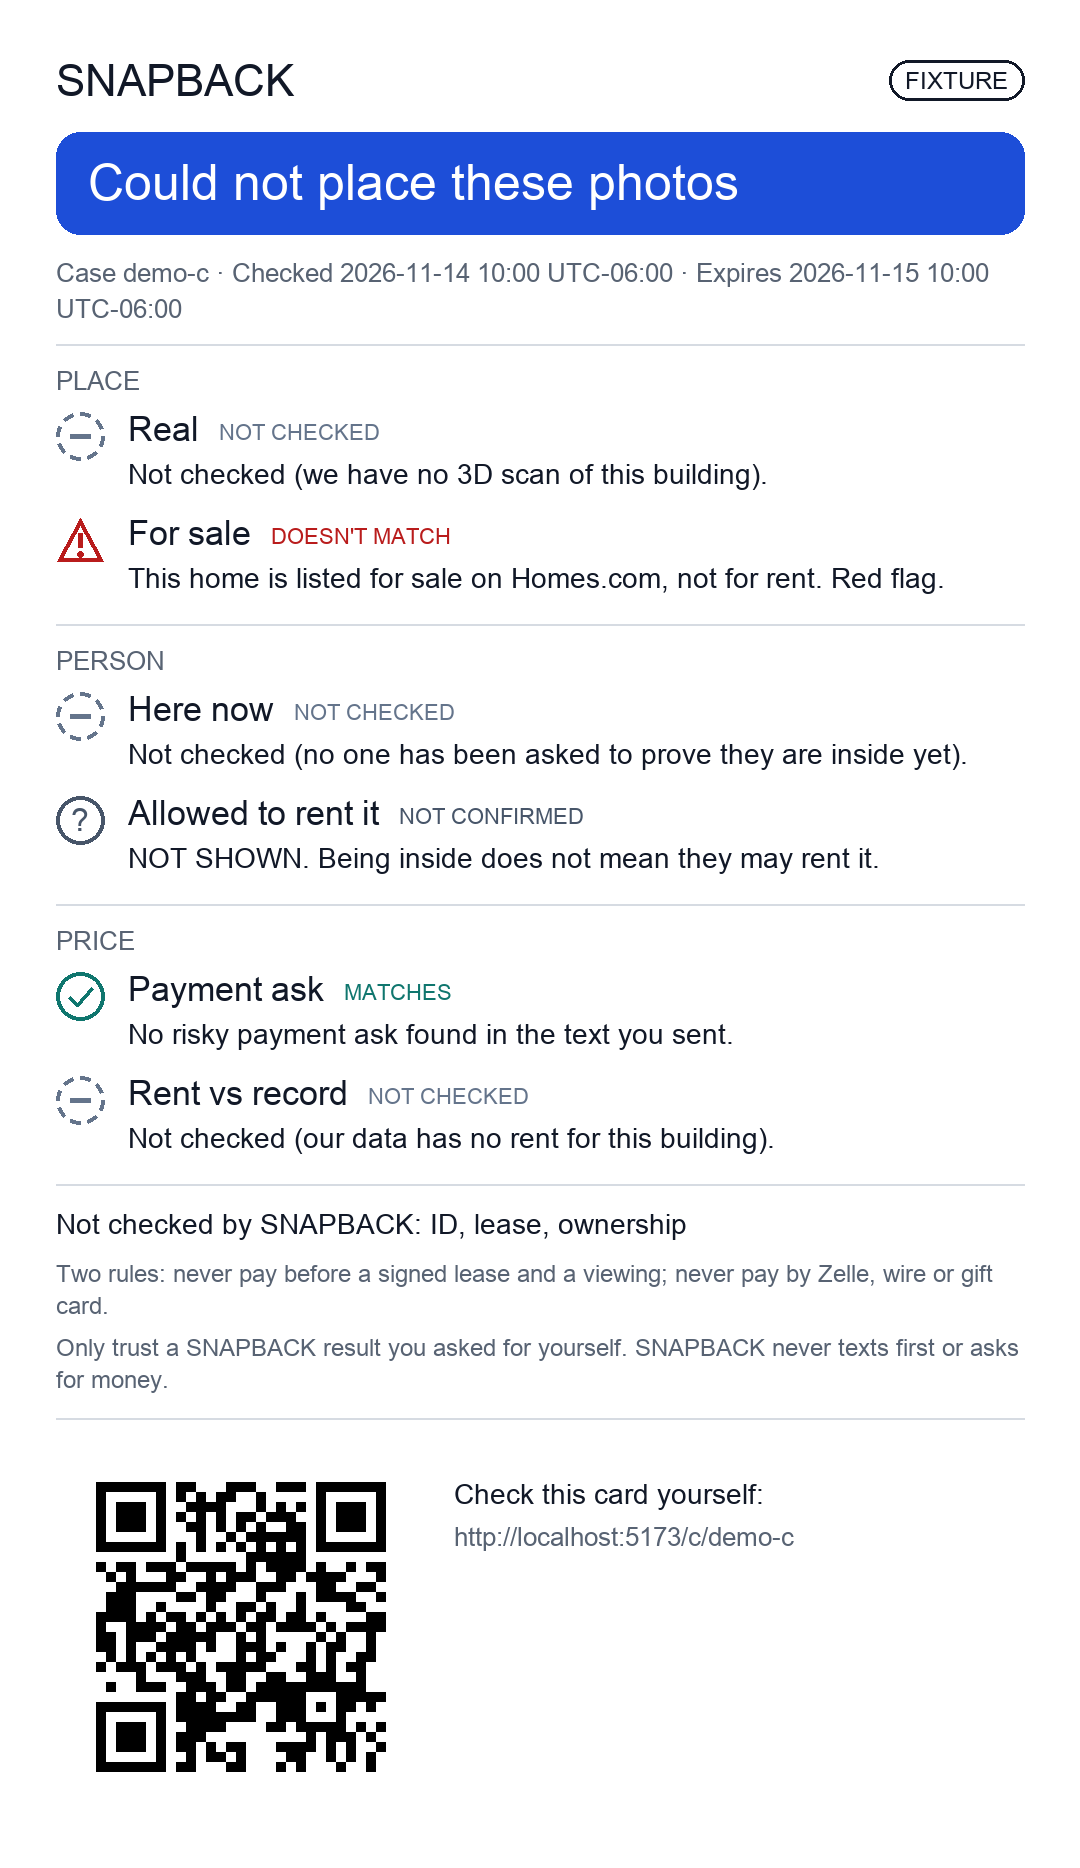
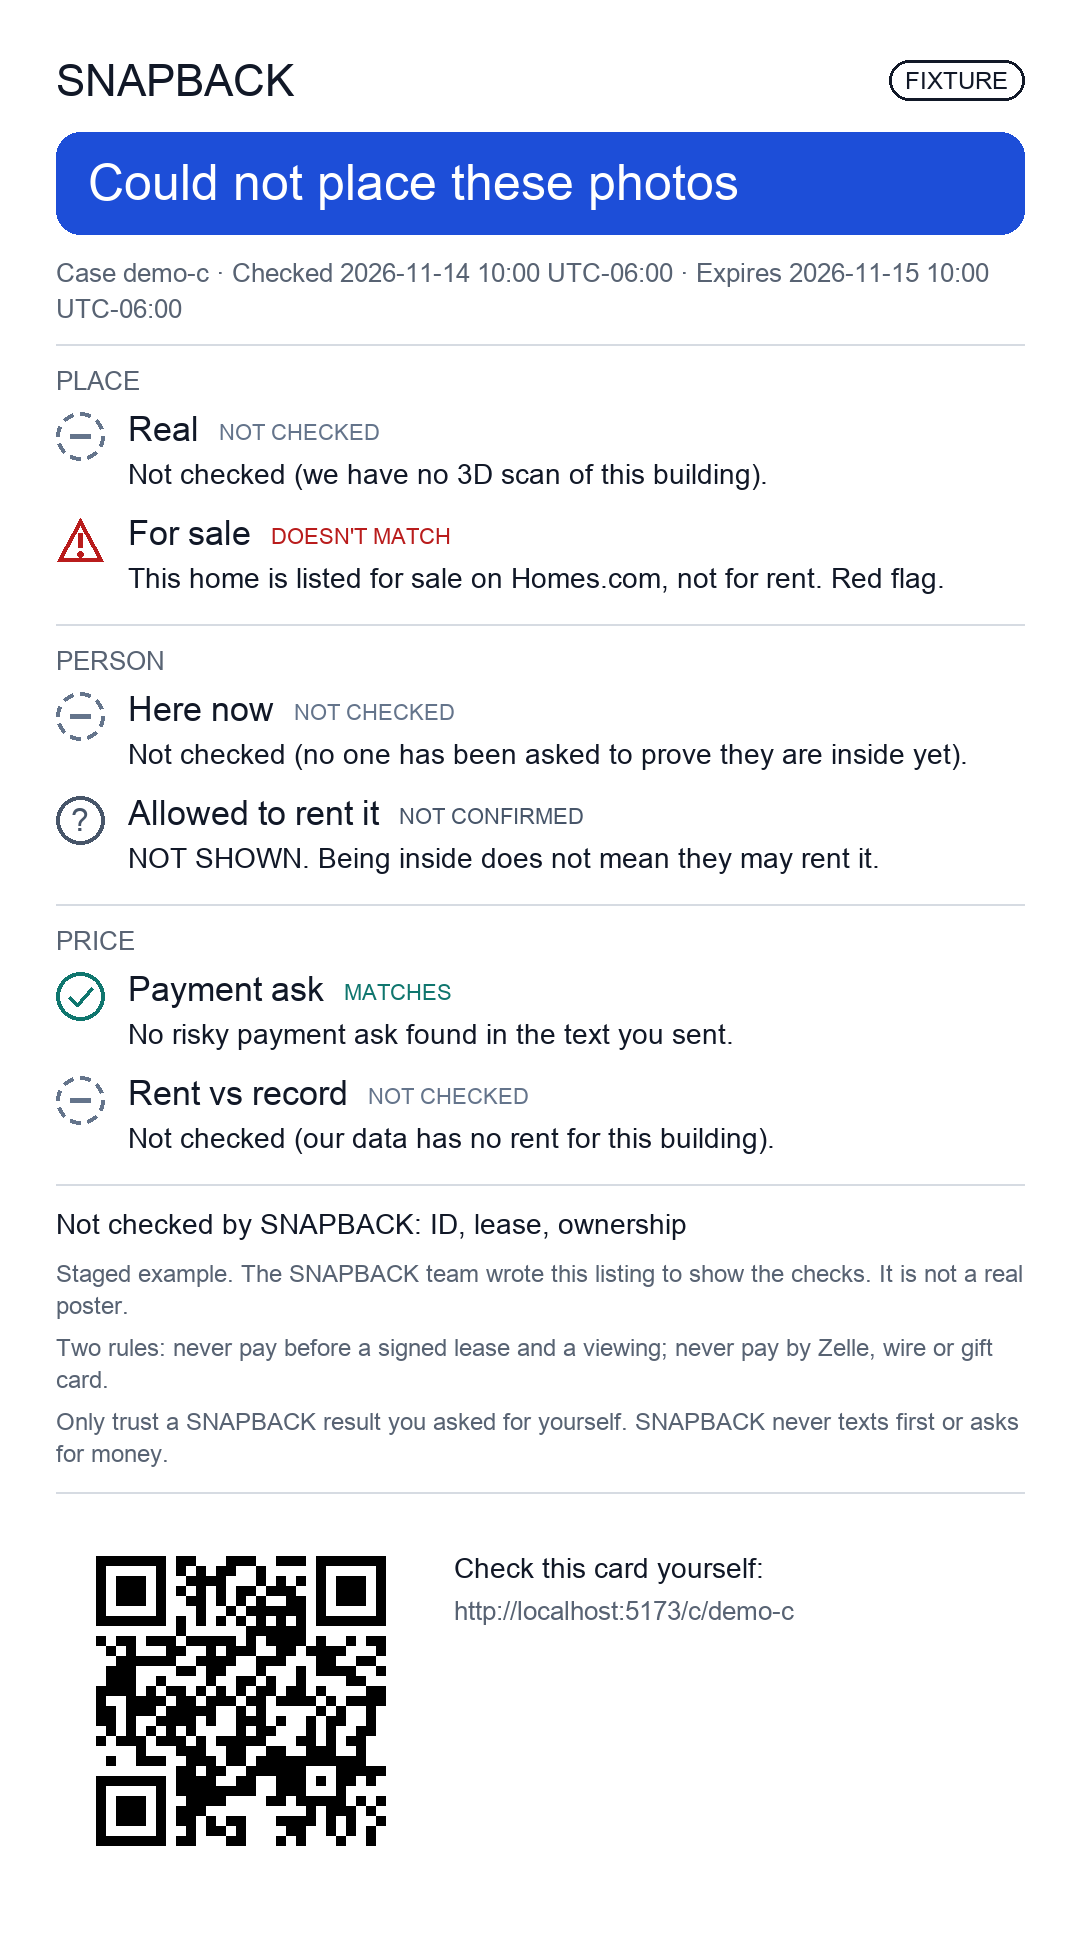
A9: every card from the demo pack says it is a staged example
XO answer on #73: keep the staged cases, labelled 'Staged example' on screen and in the
README. The line is first in the footer of each card made from the pack: on the web, in the
picture, in Spanish, and in the printed output. The README says the pack is staged and that
sourced replays (D8) get their own folders beside it.

Changed region(s): [[0.0306, 0.031, 0.9472, 0.9625], [0.4278, 0.7762, 0.7333, 0.8383], [0.825, 0.031, 0.9472, 0.0621]]

diff --git a/src/snapback/api/cases.py b/src/snapback/api/cases.py
@@ -26,7 +26,7 @@ from snapback.agent import (
     Trace,
     run_case,
 )
-from snapback.agent.demo import demo_modules, load_demo_case
+from snapback.agent.demo import demo_modules, load_demo_case, staged
 from snapback.agent.intake import Listing, read_listing
 from snapback.agent.modules import CODE_ALPHABET, FIXTURES_DIR
 from snapback.card import strings
@@ -143,6 +143,7 @@ class SessionCase:
         self.session = session
         self._listing = listing
         self._runner = runner
+        self.staged = False  # made from a staged demo case (fixtures/demo)
         self._checked_at: datetime | None = None
         self._lock = threading.Lock()
 
@@ -161,12 +162,14 @@ class SessionCase:
         return list(self.session.trace.events)
 
     def card(self, verify_base_url: str, lang: str = strings.DEFAULT_LANG) -> Card:
-        return build_card(
+        card = build_card(
             self.session.evidence,
             checked_at=self._checked_at or _now(),
             verify_base_url=verify_base_url,
             lang=lang,
         )
+        # A card made from a staged demo case says so on the card itself.
+        return staged(card) if self.staged else card
 
     def status(self, with_challenge: bool = False) -> CaseStatus:
         """Where the case stands. The drafted challenge is left out unless asked for."""
@@ -290,6 +293,7 @@ class CaseStore:
             if listing.injection_spans:
                 session.trace.emit(TraceKind.STATUS, strings.text("trace.intake.injection"))
             case = SessionCase(short_id, session, listing, self._runner)
+            case.staged = bool(self._settings.demo_case)
             self._cases[short_id] = case
         case.advance()
         return case

diff --git a/tests/test_demo_cases.py b/tests/test_demo_cases.py
@@ -68,7 +68,34 @@ def test_everything_in_the_pack_is_marked_synthetic():
 def test_the_readme_says_what_is_staged_and_what_is_real():
     readme = (DEMO_DIR / "README.md").read_text()
     assert "staged poster, real CoStar records" in readme
+    assert "Staged example" in readme
     assert "synthetic" in readme.lower()
+
+
+@pytest.mark.parametrize("case_id", ["a", "b", "c"])
+def test_every_demo_card_says_first_in_its_footer_that_it_is_staged(case_id):
+    _, card = run_demo_case(case_id)
+    assert card.footer[0].startswith("Staged example.")
+    assert "not a real poster" in card.footer[0]
+    _, spanish = run_demo_case(case_id, lang="es")
+    assert spanish.footer[0].startswith("Ejemplo preparado.")
+
+
+def test_a_card_from_the_flag_says_it_is_staged_and_an_ordinary_card_does_not(tmp_path):
+    staged_client = client_for(tmp_path, "c")
+    case = staged_client.post("/cases", data={}).json()
+    card = staged_client.get(f"/cases/{case['case_id']}/card").json()
+    assert card["footer"][0].startswith("Staged example.")
+    picture = staged_client.get(f"/cases/{case['case_id']}/card.png")
+    assert picture.status_code == 200
+
+    plain_client = client_for(tmp_path, None)
+    plain = plain_client.post("/cases", data={"text": "Two bed."}).json()
+    plain_card = plain_client.get(f"/cases/{plain['case_id']}/card").json()
+    assert not any("Staged" in line for line in plain_card["footer"])
+    assert not any(
+        "Staged" in line for line in plain_client.get("/cases/7Q2M/card").json()["footer"]
+    )
 
 
 def test_the_office_phone_is_kept_only_as_a_hash():

diff --git a/src/snapback/agent/demo.py b/src/snapback/agent/demo.py
@@ -79,6 +79,12 @@ def demo_modules(case: DemoCase, listing: Listing) -> FixtureModules:
     )
 
 
+def staged(card: Card) -> Card:
+    """The same card, saying first in its footer that it is a staged example."""
+    note = strings.text("footer.staged", card.lang)
+    return card.model_copy(update={"footer": [note, *card.footer]})
+
+
 def run_demo_case(
     case_id: str, *, lang: str = strings.DEFAULT_LANG, checked_at: datetime | None = None
 ) -> tuple[Verdict, Card]:
@@ -89,14 +95,14 @@ def run_demo_case(
     session = CaseSession(full_id, demo_modules(case, listing), Trace(full_id, DataSource.FIXTURE))
     verdict = run_case(session, PolicyChooser(), lambda draft: "send")
     assert verdict is not None  # an approver was given, so the run cannot pause
-    return verdict, build_card(session.evidence, checked_at=checked_at, lang=lang)
+    return verdict, staged(build_card(session.evidence, checked_at=checked_at, lang=lang))
 
 
 def main() -> None:
     for case_id in demo_case_ids():
         case = load_demo_case(case_id)
         verdict, card = run_demo_case(case_id)
-        print(f"\n({case_id}) {case.title}  [FIXTURE]")
+        print(f"\n({case_id}) {case.title}  [FIXTURE, staged example]")
         print(f"    {verdict.state.value.upper()}: {' '.join(verdict.reasons)}")
         for row in card.rows:
             for line in row.lines:

diff --git a/src/snapback/card/strings.py b/src/snapback/card/strings.py
@@ -158,6 +158,11 @@ EN: dict[str, str] = {
         "Only trust a SNAPBACK result you asked for yourself. "
         "SNAPBACK never texts first or asks for money."
     ),
+    # On every card made from a staged demo case (fixtures/demo), first in the footer.
+    "footer.staged": (
+        "Staged example. The SNAPBACK team wrote this listing to show the checks. "
+        "It is not a real poster."
+    ),
     # --- the challenge message the renter relays, and the agent's own trace lines ----------
     "challenge.text": (
         "Before you pay, ask them to send a photo of {spot} with the code {code} written on paper."
@@ -421,6 +426,10 @@ ES: dict[str, str] = {
     "footer.only_trust": (
         "Confíe solo en un resultado de SNAPBACK que usted mismo pidió. SNAPBACK nunca "
         "escribe primero ni pide dinero."
+    ),
+    "footer.staged": (
+        "Ejemplo preparado. El equipo de SNAPBACK escribió este anuncio para mostrar las "
+        "revisiones. No es un anunciante real."
     ),
     "challenge.text": (
         "Antes de pagar, pídales que envíen una foto de {spot} con el código {code} escrito "

diff --git a/fixtures/demo/README.md b/fixtures/demo/README.md
@@ -4,6 +4,12 @@ Three staged cases that each run end to end to a card. In the demo it is a
 **staged poster, real CoStar records**: the listing is written by us, playing the poster, and
 the building records are the sponsor's, read from the kit at run time.
 
+**Every one of these is a staged example, and says so.** Each card made from this pack carries
+"Staged example. The SNAPBACK team wrote this listing to show the checks. It is not a real
+poster." first in its footer, on the web, in the picture and in the printed output. These are
+not replays of reported cases: the sourced replays (D8, #71) get their own
+`fixtures/demo/replay-*` folders next to these.
+
 Nothing of the sponsor's is in this folder. What is here is the staged listing for each case
 and a synthetic stand-in for everything the live run reads from the kit or the twin: the
 record, where the photos were placed, and the reply to the challenge. Ids start with `fx-`,
